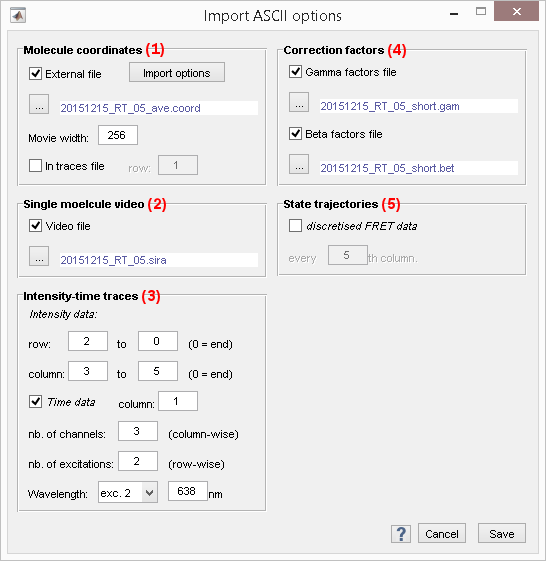
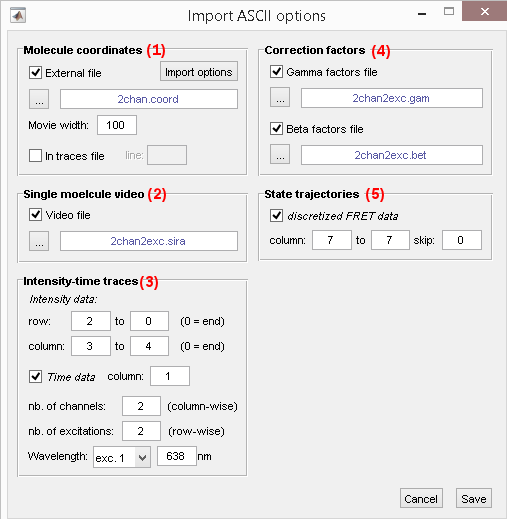
update ASCII import options for FRET state sequences

Changed region(s): [[0.0, 0.0, 1.0, 0.9249], [0.7101, 0.9249, 0.9763, 0.9865], [0.0, 0.9865, 0.0296, 1.0]]

diff --git a/docs/trace-processing/functionalities/set-import-options.md b/docs/trace-processing/functionalities/set-import-options.md
@@ -19,7 +19,7 @@ The window is accessed by pressing
 After modification, press 
 ![Save](../../assets/images/gui/TP-but-save-bga.png "Save") to save import settings.
 
-<a href="../../assets/images/gui/TP-area-proj-impopt.png"><img src="../../assets/images/gui/TP-area-proj-impopt.png" style="max-width: 546px;"/></a>
+<a href="../../assets/images/gui/TP-area-proj-impopt.png"><img src="../../assets/images/gui/TP-area-proj-impopt.png" style="max-width: 507px;"/></a>
 
 ## Window components
 {: .no_toc .text-delta }
@@ -144,7 +144,7 @@ If several files are selected, gamma and/or beta factors will be concatenated ro
 Use this panel to import FRET state trajectories in module Transition analysis exclusively.
 If state trajectories are imported in module Trace processing, they will be overwritten by newly calculated ones.
 
-<a href="../../assets/images/gui/TP-area-proj-impopt-discr.png"><img src="../../assets/images/gui/TP-area-proj-impopt-discr.png" style="max-width: 250px;"/></a>
+<a href="../../assets/images/gui/TP-area-proj-impopt-discr.png"><img src="../../assets/images/gui/TP-area-proj-impopt-discr.png" style="max-width: 243px;"/></a>
 
 State trajectories are used in module 
 [Transition analysis](../../transition-analysis.html) to infer state configurations and determine state transition rates.
@@ -152,8 +152,10 @@ State trajectories are used in module
 They are usually read from a processed 
 [.mash file](../../output-files/mash-mash-project.html) but can also be imported from the ASCII trace files.
 
-To import FRET state trajectories, activate the option in **(a)**.
-In that case, state data will be read in every **(b)**<sup>th</sup> file columns.
+To import FRET state trajectories from a single or multiple FRET pairs, activate the option in **(a)**.
+In that case, state data will be read from file column **(b)** to **(c)** and skipping **(d)** columns.
+
+In the case of multiple FRET pairs, channel indexes of donor (`[D]`) and acceptor (`[A]`) emitters are read from file column headers `discr.FRET_[D]>[A]` or `FRET[D]-[A]`.
 
 **Note:** *For the moment, only FRET state trajectories can be imported.
 In the future, this functionality will be extended to all kind of state data supported in MASH-FRET.*
